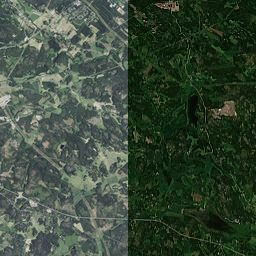
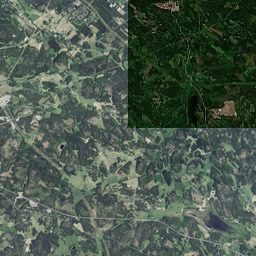
Päivitä z11–12-yleiskuvat, meta.json ja README laajennetulle ortopeitolle (extra_z13, union_bbox)

Changed region(s): [[0.5, 0.5, 1.0, 1.0]]

diff --git a/README.md b/README.md
@@ -2,11 +2,9 @@
 
 Itse isännöidyt XYZ-tiilet (`{z}/{x}/{y}.jpg`, zoomit 11-17) Rauman alueelta [Rauman bussit](https://raumanbussit.azurewebsites.net) -sovelluksen 3D-näkymän ja kartan ilmakuvaa varten. Tiilet on tehty Maanmittauslaitoksen tiedostopalvelun 0,5 m ortokuvasta (JPEG2000), koska avoin WMTS-ortokuva on ylipakattua ja sumeaa.
 
-Lähde: Maanmittauslaitos, Ortokuva, 2025, ladattu 2026-10-26, CC BY 4.0.
+Lähde: Maanmittauslaitos, Ortokuva, 2025, ladattu 2026-11-01, CC BY 4.0.
 
-Alue: leveys 61.037012232401885-61.22795717667786, pituus 21.26953125-21.708984375 (WGS84). Tiiliä 30724, yhteensä 538 Mt.
-
-Zoomit 13-17 ovat pelkkää MML:n ortokuvaa. Zoomit 11-12 (34 tiiltä) on tehty z13-tiilistä, ja niiden puuttuvat reunat on täytetty muokkaamattomalla EOX Sentinel-2 cloudless -kuvalla (`scripts/build_ortho_overviews.py`), jotta kaukaa katsottaessa ortokuvan ja Sentinelin raja ei näy.
+Alue: leveys 61.037012232401885-61.22795717667786, pituus 21.26953125-21.708984375 (WGS84). Tiiliä 38908, yhteensä 714 Mt.
 
 ## Uudelleenluonti
 
@@ -17,3 +15,5 @@ python3 scripts/build_ortho_tiles.py
 ```
 
 Tarvitsee GDAL:n (`gdalbuildvrt`, `gdal2tiles.py`, JP2OpenJPEG) ja Pillowin sekä ympäristömuuttujan `MML_API_KEY`. Tulos kirjoitetaan tähän repoon ja `meta.json` päivittyy.
+
+Laajennus: lisäksi 24 z13-tiiltä (ja niiden z14-17-jälkeläiset) bussireittien varrelta perusalueen ulkopuolelta, 600 m puskurilla (`extra_z13` ja `union_bbox` meta.jsonissa; `python3 scripts/build_ortho_tiles.py --extend-routes 600`).
